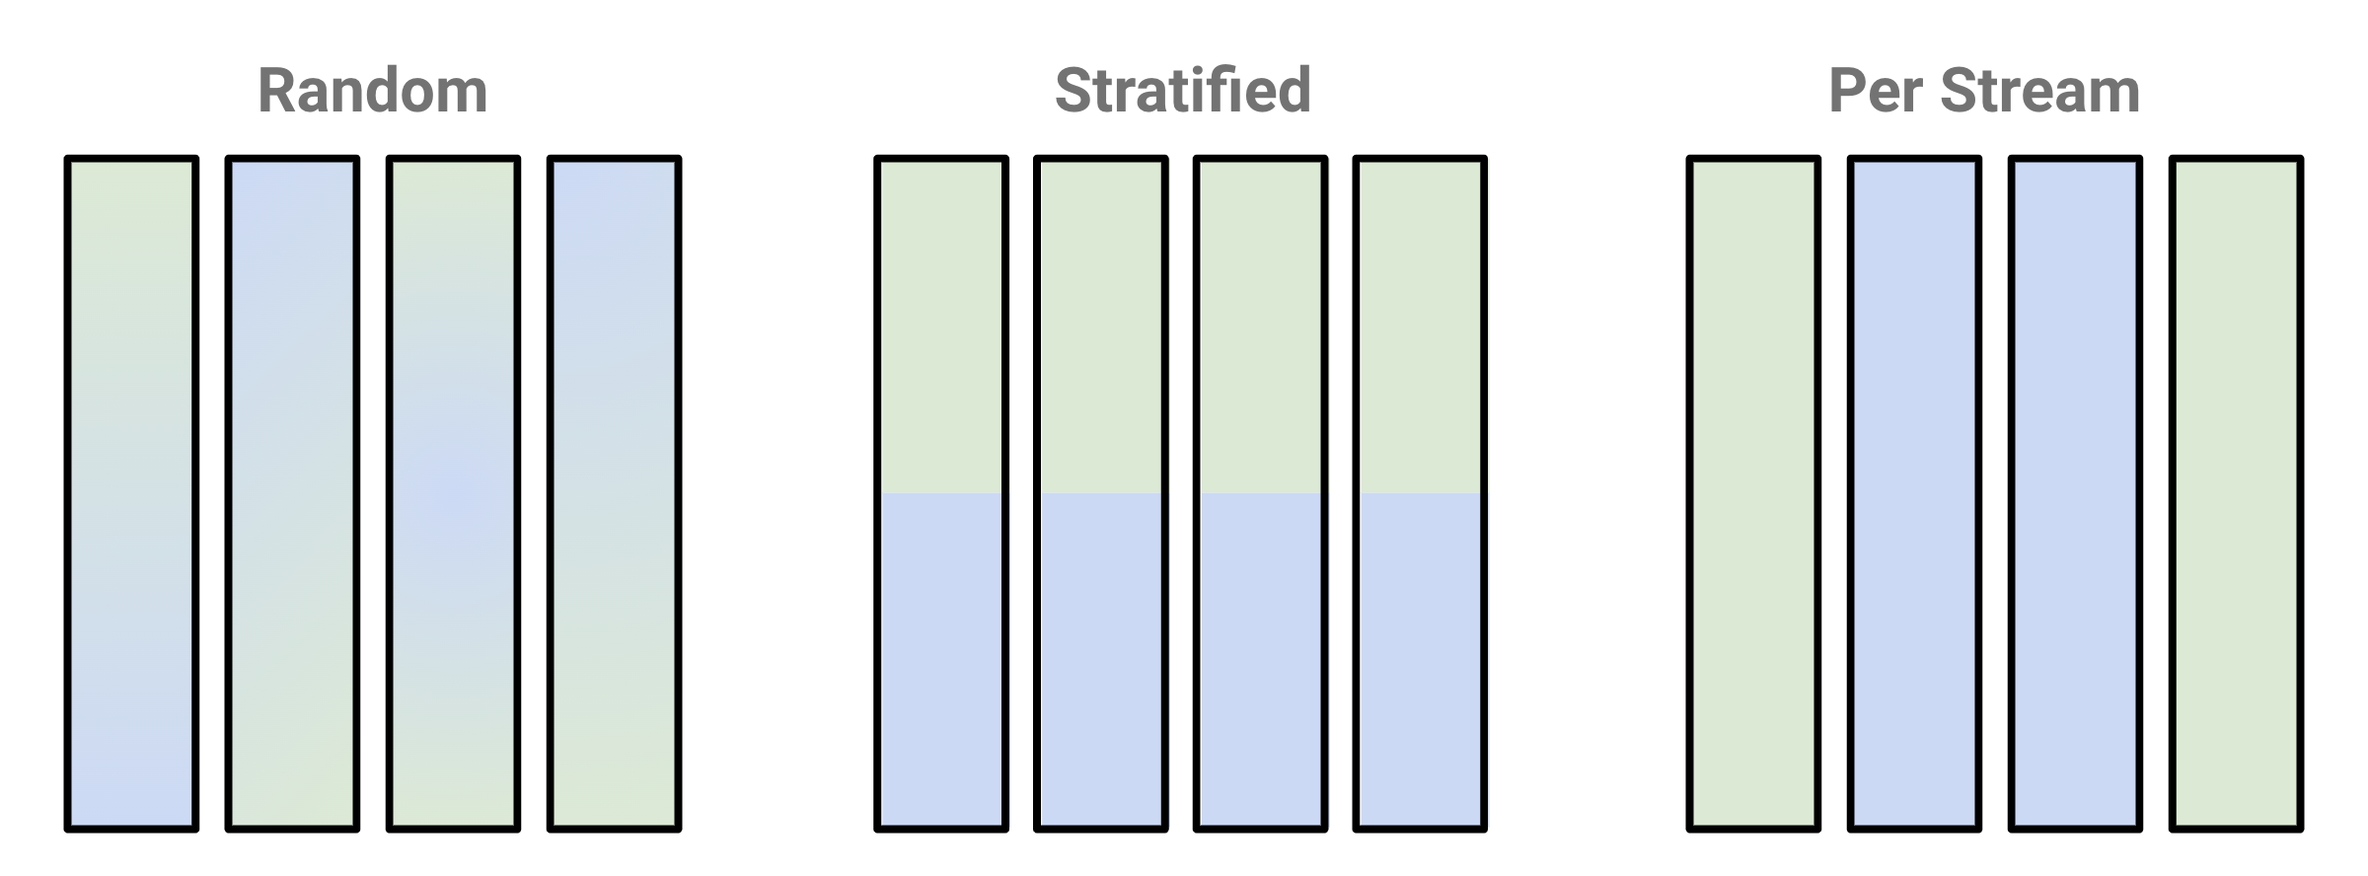
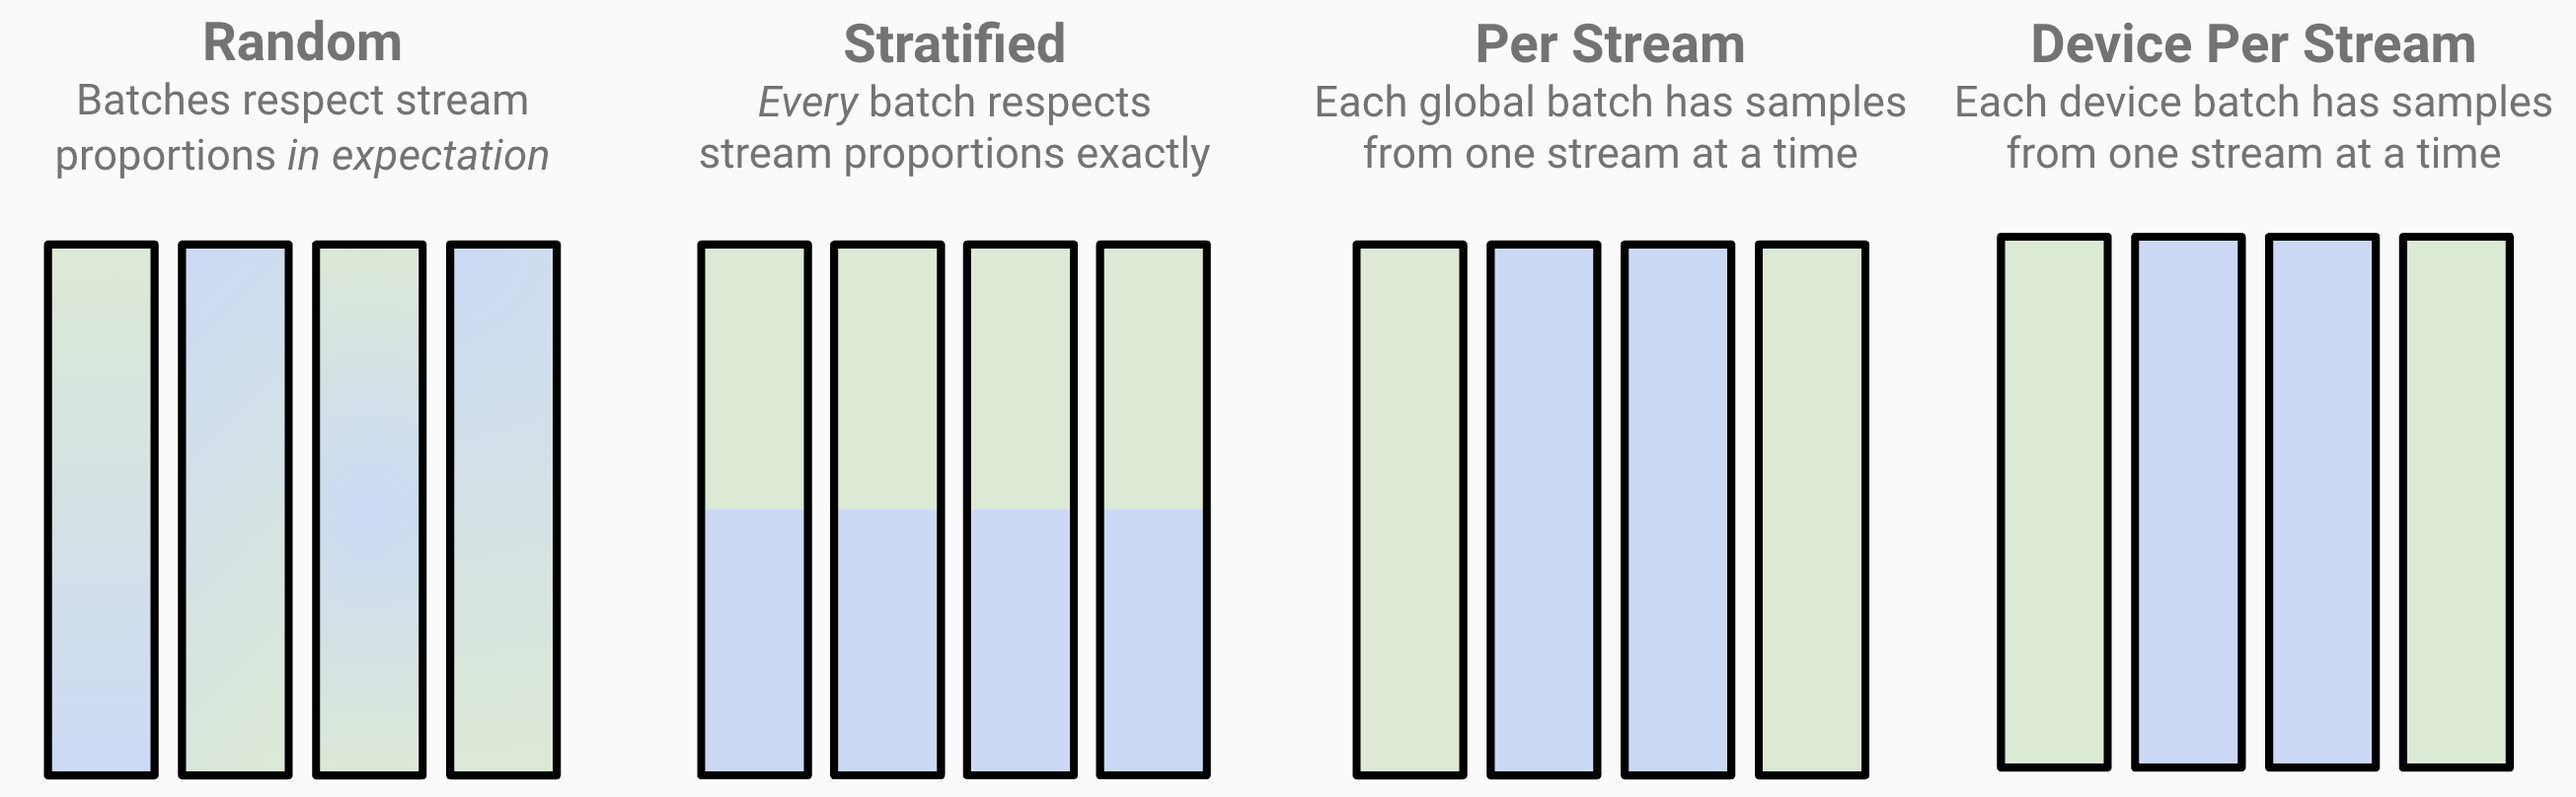
batching method: device per stream

diff --git a/tests/test_streaming.py b/tests/test_streaming.py
@@ -12,7 +12,9 @@ import pytest
 from torch.utils.data import DataLoader
 
 from streaming.base import Stream, StreamingDataLoader, StreamingDataset
+from streaming.base.batching import generate_work
 from streaming.base.util import clean_stale_shared_memory
+from streaming.base.world import World
 from tests.common.utils import convert_to_mds
 
 
@@ -173,6 +175,82 @@ def test_dataloader_per_stream_batching(local_remote_dir: Tuple[str, str], batch
 
     # Make sure that we see the expected number of batches, accounting for sample drops
     assert batches_seen == total_batches
+
+
+@pytest.mark.parametrize('batch_size', [4, 7])
+@pytest.mark.parametrize('seed', [2222])
+@pytest.mark.parametrize('shuffle', [True])
+@pytest.mark.parametrize('physical_nodes', [2, 8])
+@pytest.mark.parametrize('ranks_per_node', [4, 8])
+@pytest.mark.parametrize('workers_per_rank', [4, 8])
+@pytest.mark.parametrize('num_canonical_nodes', [8])
+@pytest.mark.usefixtures('local_remote_dir')
+def test_dataloader_device_per_stream_batching(local_remote_dir: Tuple[str, str], batch_size: int,
+                                               seed: int, shuffle: bool, physical_nodes: int,
+                                               ranks_per_node: int, workers_per_rank: int,
+                                               num_canonical_nodes: int):
+    # create mock datasets for 2 streams. Second one has 1.5x the samples
+    local, remote = local_remote_dir
+    local1 = os.path.join(local, 'stream1')
+    local2 = os.path.join(local, 'stream2')
+    remote1 = os.path.join(remote, 'stream1')
+    remote2 = os.path.join(remote, 'stream2')
+
+    # stream 1 has samples 0->600, sample ids 0->200
+    convert_to_mds(out_root=remote1,
+                   dataset_name='sequencedataset',
+                   num_samples=200,
+                   size_limit=1 << 8)
+    # stream 2 has samples 600 and above, sample ids 200 and above.
+    # This lets us differentiate between the samples from each stream
+    convert_to_mds(out_root=remote2,
+                   dataset_name='sequencedataset',
+                   num_samples=300,
+                   offset=600,
+                   size_limit=1 << 8)
+
+    stream1 = Stream(local=local1, remote=remote1)
+    stream2 = Stream(local=local2, remote=remote2)
+
+    # Build StreamingDataset
+    dataset = StreamingDataset(streams=[stream1, stream2],
+                               shuffle=shuffle,
+                               batch_size=batch_size,
+                               shuffle_seed=seed,
+                               num_canonical_nodes=num_canonical_nodes,
+                               batching_method='per_stream',
+                               shuffle_block_size=100)
+
+    # Get sample partition
+    fake_world = World(
+        num_nodes=physical_nodes,
+        ranks_per_node=ranks_per_node,
+        workers_per_rank=workers_per_rank,
+        worker=0,
+    )
+    sample_partition = generate_work(batching_method='device_per_stream',
+                                     dataset=dataset,
+                                     world=fake_world,
+                                     epoch=0,
+                                     sample_in_epoch=0)
+
+    # Partition shape should be:
+    # (physical nodes, ranks per node, workers per rank, batches per worker, batch size)
+    assert sample_partition.shape[0] == physical_nodes
+    assert sample_partition.shape[1] == ranks_per_node
+    assert sample_partition.shape[2] == workers_per_rank
+    assert sample_partition.shape[4] == batch_size
+
+    # Transpose and reshape sample partition to get device batches, in training traversal order.
+    sample_partition = sample_partition.transpose(3, 2, 0, 1, 4).flatten().reshape(-1, batch_size)
+
+    for device_batch in sample_partition:
+        if device_batch[0] < 200:
+            # Ensure all samples are from stream 1
+            assert (device_batch < 200).all()
+        else:
+            # Ensure all samples are from stream 2
+            assert (device_batch >= 200).all()
 
 
 @pytest.mark.parametrize('batch_size', [4, 7])

diff --git a/docs/source/getting_started/faqs_and_tips.md b/docs/source/getting_started/faqs_and_tips.md
@@ -41,8 +41,8 @@ If this still does not address the issue, refer to the [performance tuning page]
 ### I'm not seeing deterministic resumption on my training runs. How can I enable this?
 To enable elastic determinism and resumption, you should be using the {class}`streaming.StreamingDataLoader` instead of the generic PyTorch DataLoader. You should also make sure you're passing in `batch_size` to StreamingDataset in addition to your DataLoader. Certain launchers, such as [Composer](https://github.com/mosaicml/composer), support deterministic resumption with StreamingDataset automatically. See the [resumption](../distributed_training/fast_resumption.md) page for more information.
 
-### Is it possible for each global batch to consist only of samples from one Stream?
-Yes -- use the `per_stream` batching method as detailed in the [batching methods](../dataset_configuration/mixing_data_sources.md#batching-methods) section.
+### Is it possible for each global or device batch to consist only of samples from one Stream?
+Yes. For global batches drawn from a single stream, use the `per_stream` batching method, and for device batches drawn from a single stream, use the `device_per_stream` batching method. More details are in the [batching methods](../dataset_configuration/mixing_data_sources.md#batching-methods) section.
 
 ### I'm seeing a shared memory error. How can I fix this?
 Streaming uses shared memory to communicate between workers. These errors are indicative of stale shared memory, likely from a previous training run. To fix this, call `python` in your terminal and run the commands below:

diff --git a/docs/source/dataset_configuration/mixing_data_sources.md b/docs/source/dataset_configuration/mixing_data_sources.md
@@ -81,6 +81,7 @@ Controlling how a global batch is constructed is a requirement for some training
 - **`'random'`**: (default) Global batches respect dataset mixing *in expectation*. Stream proportions can vary somewhat between batches.
 - **`'stratified'`**: *Every* global batch respects dataset mixing exactly. Can help mitigate loss spikes and divergence by making sure stream proportions hold for every batch.
 - **`'per_stream'`**: Each global batch contains samples from only one stream at a time. Particularly useful when your streams contain data of different tensor shapes/sizes, so that each batch can contain samples of the same shape/size.
+- **`'device_per_stream'`**: Each *device* batch contains samples from only one stream at a time. Like `per_stream`, this is useful when mixing data from streams with different tensor shapes/sizes. Crucially, by mixing at the device batch level, each global batch can still contain samples from multiple streams.
 
 As an example, suppose we have Stream A (green) and Stream B (blue), each making up half of our total dataset. Applying each of the batching methods would make global batches look like this:
 
